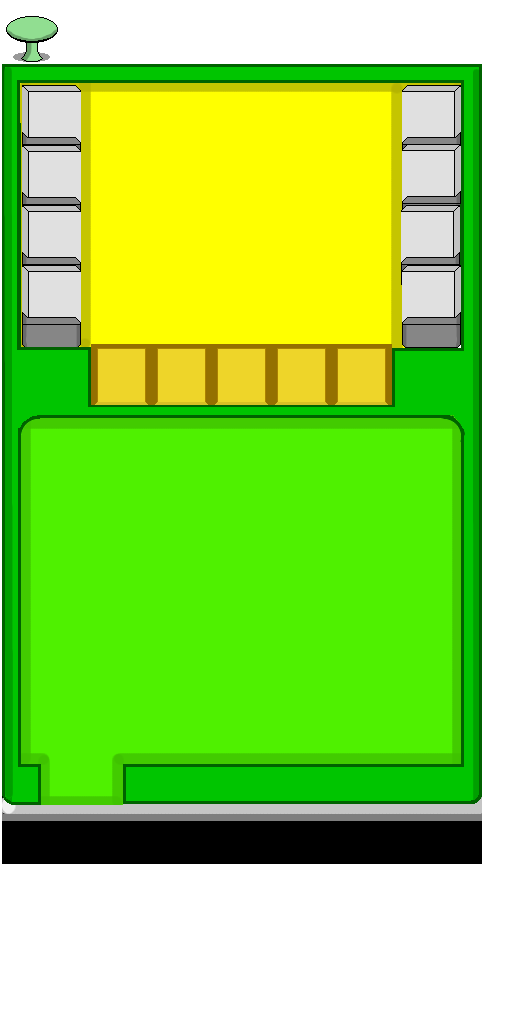
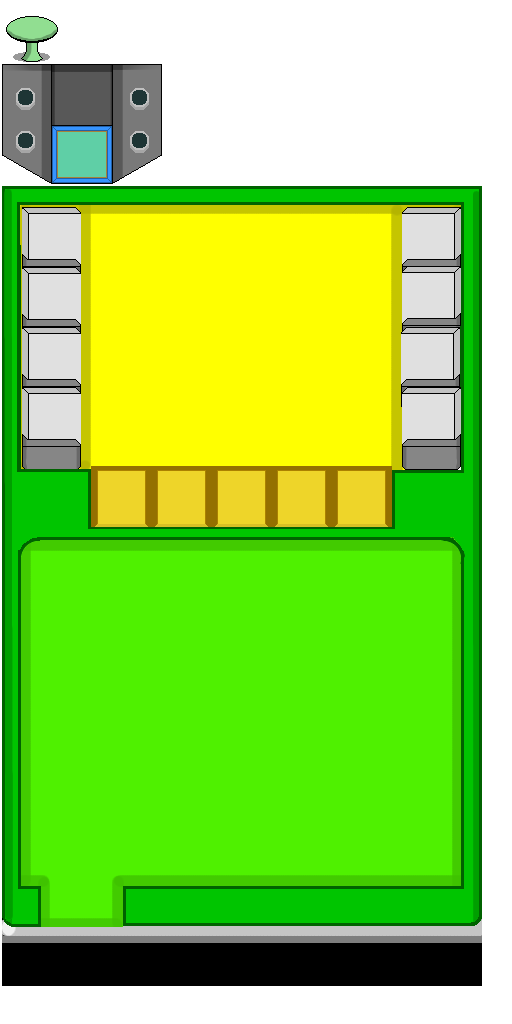
First Playable Version  - Added Oven  - Game returns to main menu on Game Over

diff --git a/ld27/src/org/castelodelego/ludum27/renderers/SpriteRenderer.java b/ld27/src/org/castelodelego/ludum27/renderers/SpriteRenderer.java
@@ -20,10 +20,12 @@ public class SpriteRenderer {
 	Sprite pizzaballoon;
 	Sprite storebackground;
 	Sprite amazingtable;
+	Sprite ovenStatic;
 	
 	Animation bronks_anim;
 	Animation beet_anim;
 	Animation wait_timer;
+	Animation ovenAnimate;
 	
 	Animation4W client[];
 	
@@ -57,10 +59,12 @@ public class SpriteRenderer {
 		
 		storebackground = pack.createSprite("static/store");
 		amazingtable = pack.createSprite("static/table");
+		ovenStatic = pack.createSprite("static/oven");
 		
 		bronks_anim = Globals.animman.get("animations/BronksDOWN");
 		beet_anim = Globals.animman.get("animations/BeetDOWN");
 		wait_timer = Globals.animman.get("animations/timer");
+		ovenAnimate = Globals.animman.get("animations/oven");
 				
 		client = new Animation4W[1];
 		client[0] = new Animation4W("animations/ClientA");
@@ -111,8 +115,8 @@ public class SpriteRenderer {
 			renderIngredient(i,(new Vector2(10,10)).add(Globals.gc.restaurant.getIngredientPosition(i)),2);
 		}
 		
-		// TODO: Rendering Oven
-
+		renderOven();
+		
 		// Rendering Pizza Tray
 		for (int i = 0; i < PizzaPlace.pizzaTraySize; i++) // pizzas on trays
 		{
@@ -137,16 +141,11 @@ public class SpriteRenderer {
 						(new Vector2(22,25)).add(Globals.gc.restaurant.tableLocation.get(i)),0.9f);
 			}
 		}
-
-		// TODO: Pizzas on tables
-
 		
 		// Rendering Robots
 		Globals.batch.draw(bronks_anim.getKeyFrame(Globals.gc.cook.anim_timer),Globals.gc.cook.getpos().x, Globals.gc.cook.getpos().y);
 		Globals.batch.draw(beet_anim.getKeyFrame(Globals.gc.server.anim_timer),Globals.gc.server.getpos().x, Globals.gc.server.getpos().y);
 
-		
-		// TODO: Pizzas on speech balloons
 		
 		// TODO: Rendering speech balloons
 		// TODO: Rendering pizza display
@@ -211,5 +210,20 @@ public class SpriteRenderer {
 		pizzaballoon.setPosition(pos.x, pos.y);
 		pizzaballoon.draw(Globals.batch);
 		renderPizza(p, (new Vector2(7,6)).add(pos), 1);
+	}
+	
+	public void renderOven()
+	{
+
+		if (Globals.gc.restaurant.ovenList.get(0).hasPizza())
+			Globals.batch.draw(ovenAnimate.getKeyFrame(timer), Globals.gc.restaurant.ovenList.get(0).pos.x,Globals.gc.restaurant.ovenList.get(0).pos.y);
+		else
+		{
+			Globals.batch.draw(ovenStatic, Globals.gc.restaurant.ovenList.get(0).pos.x,Globals.gc.restaurant.ovenList.get(0).pos.y);
+			if (Globals.gc.cook.currentPizza.totalIngredients() > 0)
+			{
+				renderPizza(Globals.gc.cook.currentPizza, Globals.gc.restaurant.ovenList.get(0).pos.cpy().add(60,10), 2);
+			}
+		}
 	}
 }

diff --git a/ld27/src/org/castelodelego/ludum27/gamemodel/GameContext.java b/ld27/src/org/castelodelego/ludum27/gamemodel/GameContext.java
@@ -49,11 +49,11 @@ public class GameContext {
 		server = new DeliverBot(new Vector2(300,600));
 		
 		diff = new DiffParam[5];
-		diff[0] = new DiffParam(1, 1, 1, 1, 240, 6);
-		diff[1] = new DiffParam(3, 1, 1, 1, 240, 12); // increase variation
-		diff[2] = new DiffParam(3, 1, 1, 2, 200, 24); // 2 at a time
-		diff[3] = new DiffParam(5, 1, 1, 2, 200, 48); // increase variation
-		diff[4] = new DiffParam(5, 1, 2, 2, 150, 72); // increase variation, 2 pizzas at a time
+		diff[0] = new DiffParam(1, 1, 1, 1, 160, 4);
+		diff[1] = new DiffParam(1, 1, 1, 2, 240, 10); // increase variation
+		diff[2] = new DiffParam(4, 1, 1, 2, 160, 20); // 2 at a time
+		diff[3] = new DiffParam(4, 1, 1, 3, 300, 26); // increase variation
+		diff[4] = new DiffParam(8, 1, 1, 4, 300, 72); // increase variation, 2 pizzas at a time
 		
 	}
 	

diff --git a/ld27/src/org/castelodelego/ludum27/PizzaScreen.java b/ld27/src/org/castelodelego/ludum27/PizzaScreen.java
@@ -23,10 +23,13 @@ public class PizzaScreen implements Screen, InputProcessor {
 	
 	Vector2 firstTouch;
 	
+	float GO_timer; // Game Over Timer
+	
 	public PizzaScreen()
 	{
 		drender = new DebugRenderer();
 		firstTouch = new Vector2();
+		GO_timer = 3;
 	}
 	
 	
@@ -45,10 +48,18 @@ public class PizzaScreen implements Screen, InputProcessor {
 	
 		// render everything
 		Globals.srender.renderGameScreen(delta);
-		drender.render(Globals.gc);
+		//drender.render(Globals.gc);
 		
 		// test if we need to leave this place
-	
+		if (Globals.gc.getState() == GameState.GAMEOVER)
+		{
+			GO_timer -= delta;
+			if (GO_timer < 0)
+			{
+				GO_timer = 3;
+				GdxGameMain.setScreen(GdxGameMain.SCREEN_MAIN);
+			}
+		}
 	
 	}
 
